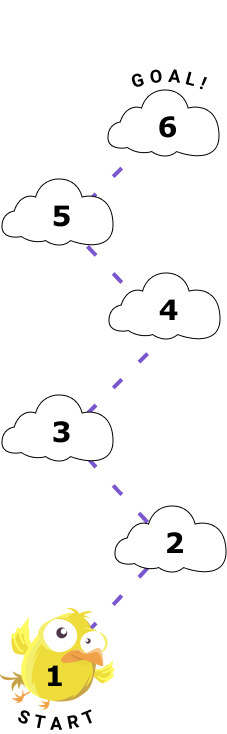
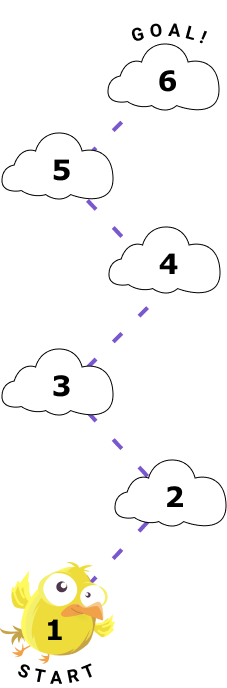
redesign

diff --git a/CSS/stylesheet.css b/CSS/stylesheet.css
@@ -23,14 +23,14 @@ h2{
 
 .centerContent{
     background-color: rgb(240, 251, 255);
-    height: max-content;
-    border-radius: 5%;
+    min-height: 797px;
+    border-radius: 10px;
     margin: auto;
 }
 .content{
     background-color: rgb(160, 228, 254);
-    border-radius: 5%;
-    height: max-content;
+    border-radius: 10px;
+    min-height: 797px;
     margin: auto;
 }
 /* Images */
@@ -39,18 +39,28 @@ h2{
     /* display: inline-block; */
     /* margin: 45px ; */
 }
+#lili{
+margin-bottom: 60px;
+}
+#score{
+margin-bottom: 20px;
+margin-top: 10px;
+}
 #freddie{
-    margin-top: 100px;
-    margin-bottom: 5px;
+    margin-top: 150px;
+    margin-bottom: 10px;
 }
 #keypad{
     margin-top: 100px;
     padding-bottom: 20px;
 }
 #bar{
-    padding-bottom: 40px;
+    /* padding-bottom: 80px; */
+   
 }
-
+.Progress{
+    margin-bottom: 0%;
+}
 /* Buttons */
 
 .secondary{
@@ -62,6 +72,7 @@ h2{
     color: white;
     font-size: 30px;
     box-shadow:  0 6px 20px 0 rgba(0,0,0,0.9);
+    margin-top: 10px;
 }
 .primary{
     background-color:rgb(82, 163, 17);

diff --git a/index.html b/index.html
@@ -16,7 +16,7 @@
     </head>
     <body>
         <div class="container px-2">
-            <div class="row gx-3">
+            <div class="row gx-2">
                <!-- First column -->
               <div class="col-3 ">
                   <div class="p-3 ">
@@ -41,7 +41,7 @@
               <div class="col-3 ">
                   <div class="p-3 ">
                <div class="content">
-                      <h1>Progress</h1>
+                      <h1 class="Progress">Progress</h1>
                     <div id="bar"><img src="/images/IXL-Online Learning for Kids (1)/Progress-question-1.png"></div></div></div>
                  </div>
             </div>
